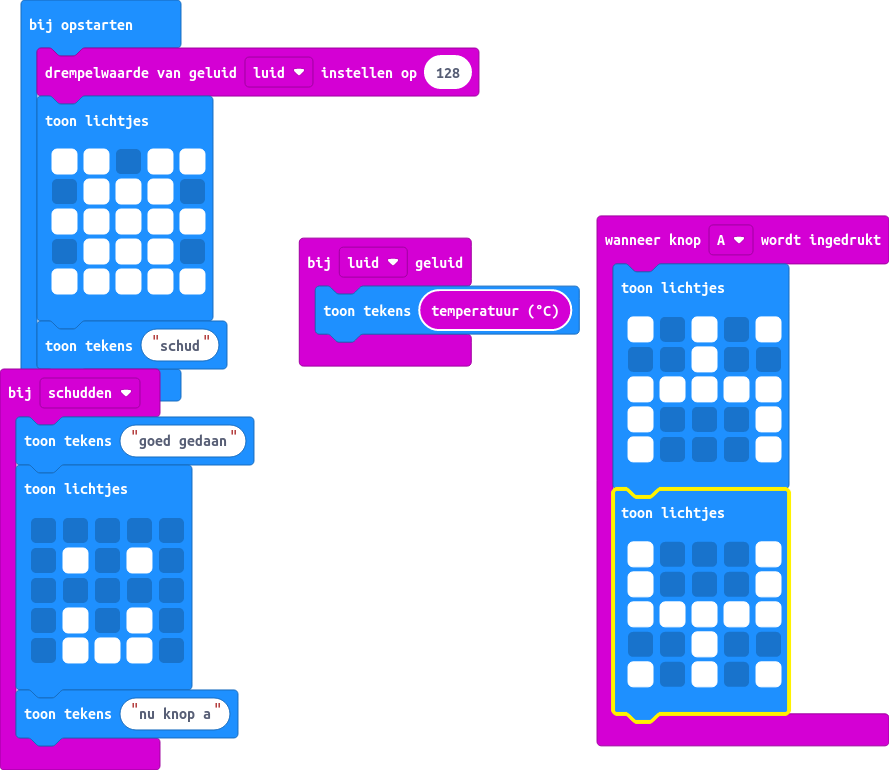
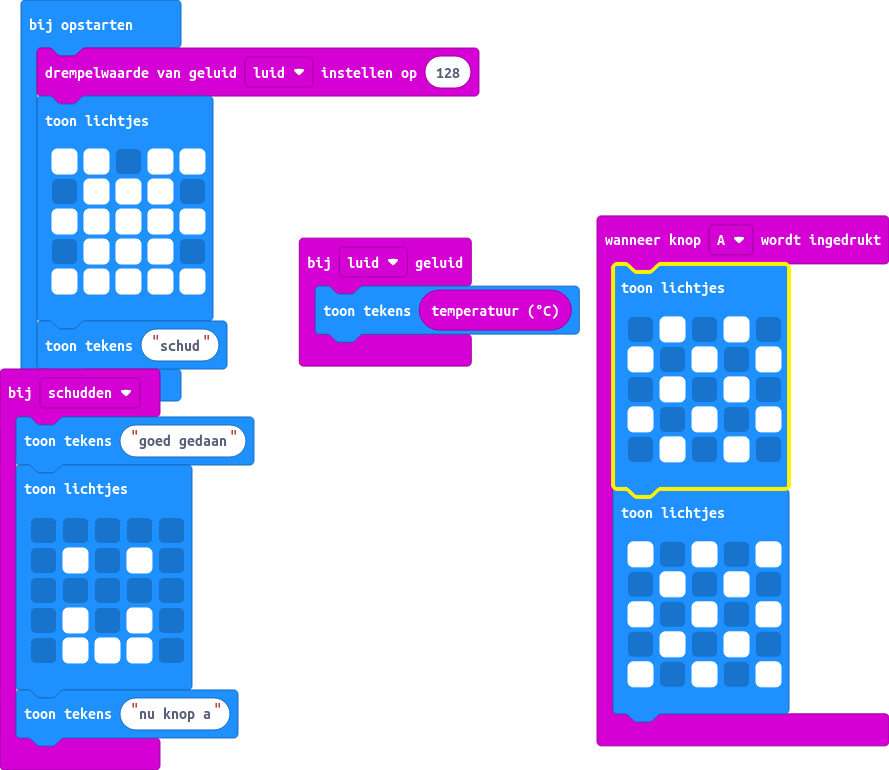
main.blocks, main.ts bijwerken

Changed region(s): [[0.6682, 0.3429, 0.9111, 0.9351], [0.6074, 0.374, 0.6378, 0.4364], [0.4556, 0.374, 0.4859, 0.4052]]

diff --git a/main.ts b/main.ts
@@ -1,16 +1,16 @@
 input.onButtonPressed(Button.A, function () {
     basic.showLeds(`
+        . # . # .
         # . # . #
-        . . # . .
-        # # # # #
-        # . . . #
-        # . . . #
+        . # . # .
+        # . # . #
+        . # . # .
         `)
     basic.showLeds(`
-        # . . . #
-        # . . . #
-        # # # # #
-        . . # . .
+        # . # . #
+        . # . # .
+        # . # . #
+        . # . # .
         # . # . #
         `)
 })
